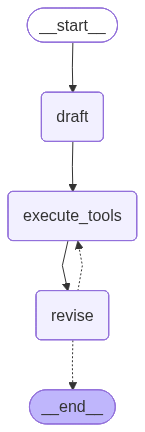
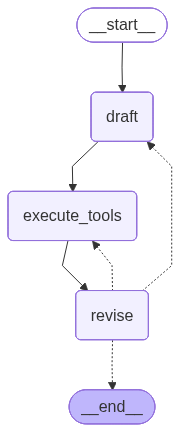
update reflexion

diff --git a/reflexion-agent/v7/main.py b/reflexion-agent/v7/main.py
@@ -39,7 +39,7 @@ builder.add_node("revise", revise_node)
 builder.add_edge(START, "draft")
 builder.add_edge("draft", "execute_tools")
 builder.add_edge("execute_tools", "revise")
-builder.add_conditional_edges("revise", event_loop, ["execute_tools", END])
+builder.add_conditional_edges("revise", event_loop, ["draft","execute_tools", END])
 graph = builder.compile()
 
 
@@ -56,14 +56,15 @@ res = graph.invoke(
 )
 print(res["messages"][-1].tool_calls[0]["args"]["answer"])
 print(res)
-
+"""
 
 res = graph.invoke(
     {
         "messages": [
             {
                 "role": "user",
-                "content": "Write about AI-Powered SOC / autonomous soc problem domain, list startups that do that and raised capital.",
+                #"content": "Write about AI-Powered SOC / autonomous soc problem domain, list startups that do that and raised capital.",
+                "content": "Write about what FHA Monthly Principla reduction is.",
             }
         ]
     }
@@ -72,5 +73,4 @@ res = graph.invoke(
 last_message = res["messages"][-1]
 if isinstance(last_message, AIMessage) and last_message.tool_calls:
     print(last_message.tool_calls[0]["args"]["answer"])
-print(res)
-"""
+#print(res)
